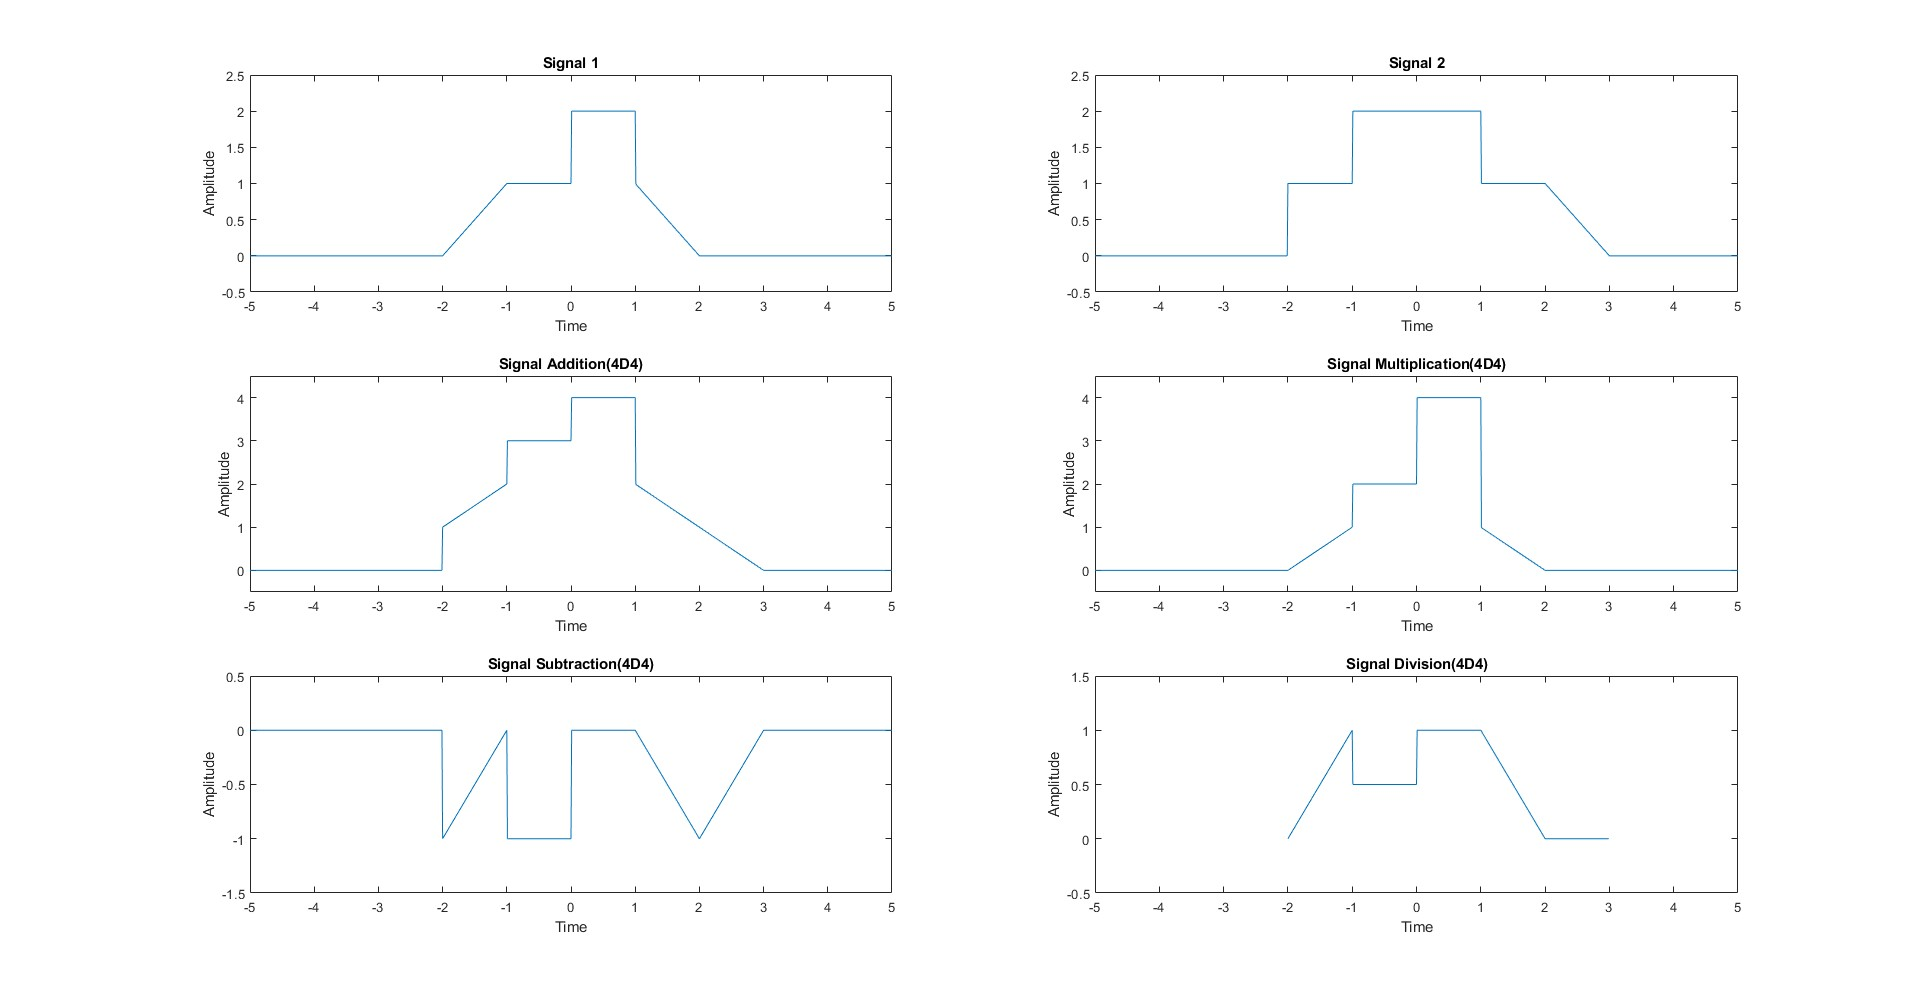
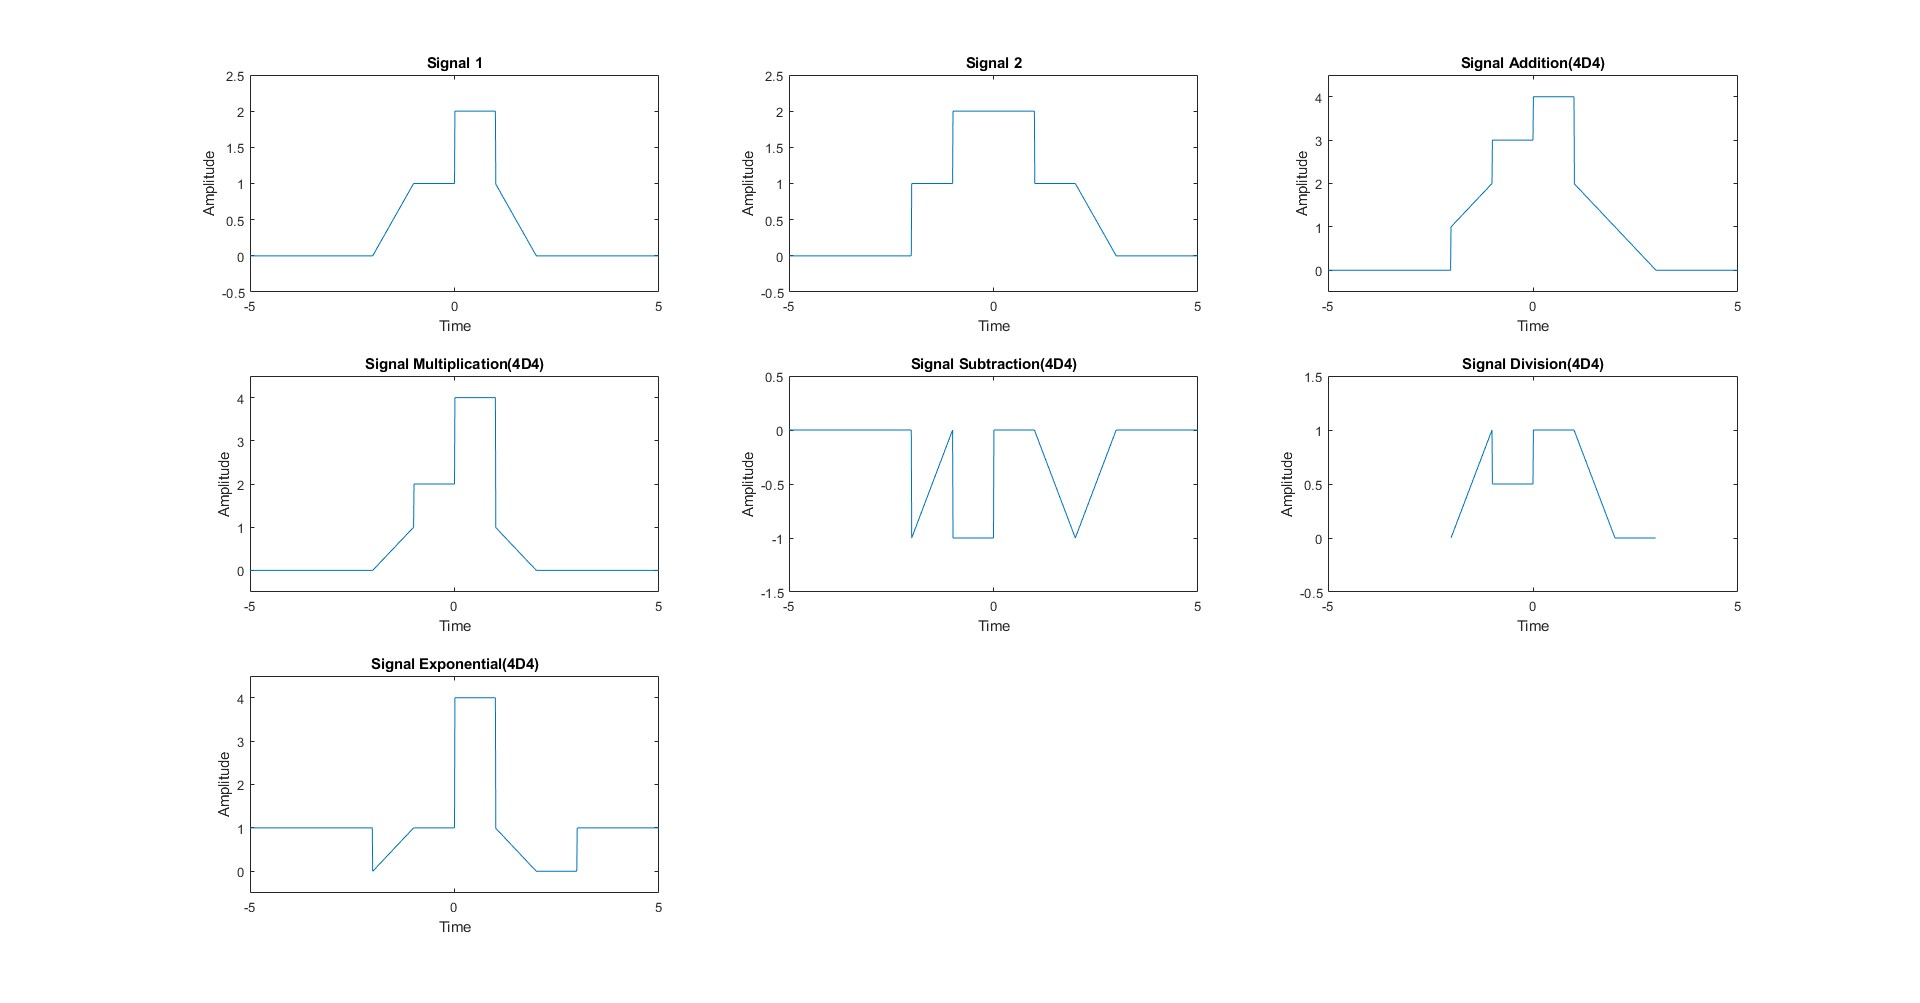
Description added

diff --git a/Other_Functions_on_Continuous_Signals.m b/Other_Functions_on_Continuous_Signals.m
@@ -1,5 +1,7 @@
+%Time Range
 t=-5:0.01:+5;
 
+%Signal 1
 Signal_1=Signal(t);
 subplot(4,2,1);
 plot(t,Signal_1);
@@ -8,6 +10,7 @@ ylabel("Amplitude");
 title("Signal 1");
 axis([min(t),max(t),min(Signal_1)-0.5,max(Signal_1)+0.5]);
 
+%Signal Left Shifting
 Signal_Left_Shifting=Signal(t+3);
 subplot(4,2,2);
 plot(t,Signal_Left_Shifting);
@@ -16,8 +19,7 @@ ylabel("Amplitude");
 title("Signal Left Shifting(4D4)");
 axis([min(t),max(t),min(Signal_Left_Shifting)-0.5,max(Signal_Left_Shifting)+0.5]);
 
-
-
+%Signal Right Shifting
 Signal_Right_Shifting=Signal(t-3);
 subplot(4,2,3);
 plot(t,Signal_Right_Shifting);
@@ -26,6 +28,7 @@ ylabel("Amplitude");
 title("Signal Right Shifting(4D4)");
 axis([min(t),max(t),min(Signal_Right_Shifting)-0.5,max(Signal_Right_Shifting)+0.5]);
 
+%Signal Amplitude Expansion
 Signal_Amplitude_Expansion=2.*Signal(t);
 subplot(4,2,4);
 plot(t,Signal_Amplitude_Expansion);
@@ -34,6 +37,7 @@ ylabel("Amplitude");
 title("Signal Amplitude Expansion Scaling(4D4)");
 axis([min(t),max(t),min(Signal_Amplitude_Expansion)-0.5,max(Signal_Amplitude_Expansion)+0.5]);
 
+%Signal Amplitude Compression
 Signal_Amplitude_Compression=0.5.*Signal(t);
 subplot(4,2,5);
 plot(t,Signal_Amplitude_Compression);
@@ -42,6 +46,7 @@ ylabel("Amplitude");
 title("Signal Amplitude Compression Scaling(4D4)");
 axis([min(t),max(t),min(Signal_Amplitude_Compression)-0.5,max(Signal_Amplitude_Compression)+0.5]);
 
+%Signal Time Compression
 Signal_Time_Compression=Signal(2.*t);
 subplot(4,2,6);
 plot(t,Signal_Time_Compression);
@@ -50,6 +55,7 @@ ylabel("Amplitude");
 title("Signal Time Compression Scaling(4D4)");
 axis([min(t),max(t),min(Signal_Time_Compression)-0.5,max(Signal_Time_Compression)+0.5]);
 
+%Signal Time Expansion
 Signal_Time_Expansion=Signal(0.5.*t);
 subplot(4,2,7);
 plot(t,Signal_Time_Expansion);
@@ -58,6 +64,7 @@ ylabel("Amplitude");
 title("Signal Time Expansion Scaling(4D4)");
 axis([min(t),max(t),min(Signal_Time_Expansion)-0.5,max(Signal_Time_Expansion)+0.5]);
 
+%Signal Folding
 Signal_Reverse=Signal(-t);
 subplot(4,2,8);
 plot(t,Signal_Reverse);

diff --git a/Other_Functions_on_Discrete_Signals.m b/Other_Functions_on_Discrete_Signals.m
@@ -1,5 +1,7 @@
+%Time Range
 t=-5:1:+5;
 
+%Signal 1
 Signal_1=Signal(t);
 subplot(4,2,1);
 stem(t,Signal_1);
@@ -8,6 +10,7 @@ ylabel("Amplitude");
 title("Signal 1");
 axis([min(t),max(t),min(Signal_1)-0.5,max(Signal_1)+0.5]);
 
+%Signal Left Shifting
 Signal_Left_Shifting=Signal(t+3);
 subplot(4,2,2);
 stem(t,Signal_Left_Shifting);
@@ -16,8 +19,7 @@ ylabel("Amplitude");
 title("Signal Left Shifting(4D4)");
 axis([min(t),max(t),min(Signal_Left_Shifting)-0.5,max(Signal_Left_Shifting)+0.5]);
 
-
-
+%Signal Right Shifting
 Signal_Right_Shifting=Signal(t-3);
 subplot(4,2,3);
 stem(t,Signal_Right_Shifting);
@@ -26,6 +28,7 @@ ylabel("Amplitude");
 title("Signal Right Shifting(4D4)");
 axis([min(t),max(t),min(Signal_Right_Shifting)-0.5,max(Signal_Right_Shifting)+0.5]);
 
+%Signal Amplitude Expansion
 Signal_Amplitude_Expansion=2.*Signal(t);
 subplot(4,2,4);
 stem(t,Signal_Amplitude_Expansion);
@@ -34,6 +37,7 @@ ylabel("Amplitude");
 title("Signal Amplitude Expansion Scaling(4D4)");
 axis([min(t),max(t),min(Signal_Amplitude_Expansion)-0.5,max(Signal_Amplitude_Expansion)+0.5]);
 
+%Signal Amplitude Compression
 Signal_Amplitude_Compression=0.5.*Signal(t);
 subplot(4,2,5);
 stem(t,Signal_Amplitude_Compression);
@@ -42,6 +46,7 @@ ylabel("Amplitude");
 title("Signal Amplitude Compression Scaling(4D4)");
 axis([min(t),max(t),min(Signal_Amplitude_Compression)-0.5,max(Signal_Amplitude_Compression)+0.5]);
 
+%Signal Time Compression
 Signal_Time_Compression=Signal(2.*t);
 subplot(4,2,6);
 stem(t,Signal_Time_Compression);
@@ -50,6 +55,7 @@ ylabel("Amplitude");
 title("Signal Time Compression Scaling(4D4)");
 axis([min(t),max(t),min(Signal_Time_Compression)-0.5,max(Signal_Time_Compression)+0.5]);
 
+%Signal Time Expansion
 Signal_Time_Expansion=Signal(0.5.*t);
 subplot(4,2,7);
 stem(t,Signal_Time_Expansion);
@@ -58,6 +64,7 @@ ylabel("Amplitude");
 title("Signal Time Expansion Scaling(4D4)");
 axis([min(t),max(t),min(Signal_Time_Expansion)-0.5,max(Signal_Time_Expansion)+0.5]);
 
+%Signal Folding
 Signal_Reverse=Signal(-t);
 subplot(4,2,8);
 stem(t,Signal_Reverse);

diff --git a/Arithmetic_Functions_on_Continuous_Signals.m b/Arithmetic_Functions_on_Continuous_Signals.m
@@ -1,60 +1,76 @@
 clear all
 close all
 
+%time range
 t=-5:0.01:+5;
 
+%Signal 1
 Signal_1 = (t+2).*(t>=-2 & t<=-1) + (1).*(t>-1 & t<=0)+ (2).*(t>0 & t<=1)+ (2-t).*(t>1 & t<=2);
 
-subplot(3,2,1);
+subplot(3,3,1);
 plot(t,Signal_1);
 xlabel("Time");
 ylabel("Amplitude");
 title("Signal 1");
 axis([min(t),max(t),min(Signal_1)-0.5,max(Signal_1)+0.5]);
 
-
-
+%Signal 2
 Signal_2 = (1).*(t>=-2 & t<=-1)+ (2).*(t>-1 & t<=1) + (1).*(t>1 & t<=2) + (3-t).*(t>2 & t<=3);
 
-subplot(3,2,2);
+subplot(3,3,2);
 plot(t,Signal_2);
 xlabel("Time");
 ylabel("Amplitude");
 title("Signal 2");
 axis([min(t),max(t),min(Signal_2)-0.5,max(Signal_2)+0.5]);
 
+%Signal Addition
 Signal_Addition = Signal_1 + Signal_2;
 
-subplot(3,2,3);
+subplot(3,3,3);
 plot(t,Signal_Addition);
 xlabel("Time");
 ylabel("Amplitude");
 title("Signal Addition(4D4)");
 axis([min(t),max(t),min(Signal_Addition)-0.5,max(Signal_Addition)+0.5]);
 
+%Signal Multiplication
 Signal_Multiplication = Signal_1 .* Signal_2;
 
-subplot(3,2,4);
+subplot(3,3,4);
 plot(t,Signal_Multiplication);
 xlabel("Time");
 ylabel("Amplitude");
 title("Signal Multiplication(4D4)");
 axis([min(t),max(t),min(Signal_Multiplication)-0.5,max(Signal_Multiplication)+0.5]);
 
+%Signal Subtraction
 Signal_Subtraction = Signal_1 - Signal_2;
 
-subplot(3,2,5);
+subplot(3,3,5);
 plot(t,Signal_Subtraction);
 xlabel("Time");
 ylabel("Amplitude");
 title("Signal Subtraction(4D4)");
 axis([min(t),max(t),min(Signal_Subtraction)-0.5,max(Signal_Subtraction)+0.5]);
 
+%Signal Division
 Signal_Division = Signal_1 ./ Signal_2;
 
-subplot(3,2,6);
+subplot(3,3,6);
 plot(t,Signal_Division);
 xlabel("Time");
 ylabel("Amplitude");
 title("Signal Division(4D4)");
 axis([min(t),max(t),min(Signal_Division)-0.5,max(Signal_Division)+0.5]);
+
+%Signal Exponential
+Signal_Exponential = Signal_1 .^ Signal_2;
+
+subplot(3,3,7);
+plot(t,Signal_Exponential);
+xlabel("Time");
+ylabel("Amplitude");
+title("Signal Exponential(4D4)");
+axis([min(t),max(t),min(Signal_Exponential)-0.5,max(Signal_Exponential)+0.5]);
+

diff --git a/Arithmetic_Functions_on_Discrete_Signals.m b/Arithmetic_Functions_on_Discrete_Signals.m
@@ -1,60 +1,75 @@
 clear all
 close all
 
+%time range
 t=-5:1:+5;
 
+%Signal 1
 Signal_1 = (t+2).*(t>=-2 & t<=-1) + (1).*(t>-1 & t<=0)+ (2).*(t>0 & t<=1)+ (2-t).*(t>1 & t<=2);
 
-subplot(3,2,1);
+subplot(3,3,1);
 stem(t,Signal_1);
 xlabel("Time");
 ylabel("Amplitude");
 title("Signal 1");
 axis([min(t),max(t),min(Signal_1)-0.5,max(Signal_1)+0.5]);
 
-
-
+%Signal 1
 Signal_2 = (1).*(t>=-2 & t<=-1)+ (2).*(t>-1 & t<=1) + (1).*(t>1 & t<=2) + (3-t).*(t>2 & t<=3);
 
-subplot(3,2,2);
+subplot(3,3,2);
 stem(t,Signal_2);
 xlabel("Time");
 ylabel("Amplitude");
 title("Signal 2");
 axis([min(t),max(t),min(Signal_2)-0.5,max(Signal_2)+0.5]);
 
+%Signal Addition
 Signal_Addition = Signal_1 + Signal_2;
 
-subplot(3,2,3);
+subplot(3,3,3);
 stem(t,Signal_Addition);
 xlabel("Time");
 ylabel("Amplitude");
 title("Signal Addition(4D4)");
 axis([min(t),max(t),min(Signal_Addition)-0.5,max(Signal_Addition)+0.5]);
 
+%Signal Multiplication
 Signal_Multiplication = Signal_1 .* Signal_2;
 
-subplot(3,2,4);
+subplot(3,3,4);
 stem(t,Signal_Multiplication);
 xlabel("Time");
 ylabel("Amplitude");
 title("Signal Multiplication(4D4)");
 axis([min(t),max(t),min(Signal_Multiplication)-0.5,max(Signal_Multiplication)+0.5]);
 
+%Signal Subtraction
 Signal_Subtraction = Signal_1 - Signal_2;
 
-subplot(3,2,5);
+subplot(3,3,5);
 stem(t,Signal_Subtraction);
 xlabel("Time");
 ylabel("Amplitude");
 title("Signal Subtraction(4D4)");
 axis([min(t),max(t),min(Signal_Subtraction)-0.5,max(Signal_Subtraction)+0.5]);
 
+%Signal Division
 Signal_Division = Signal_1 ./ Signal_2;
 
-subplot(3,2,6);
+subplot(3,3,6);
 stem(t,Signal_Division);
 xlabel("Time");
 ylabel("Amplitude");
 title("Signal Division(4D4)");
 axis([min(t),max(t),min(Signal_Division)-0.5,max(Signal_Division)+0.5]);
+
+%Signal Exponential
+Signal_Exponential = Signal_1 .^ Signal_2;
+
+subplot(3,3,7);
+stem(t,Signal_Exponential);
+xlabel("Time");
+ylabel("Amplitude");
+title("Signal Exponential(4D4)");
+axis([min(t),max(t),min(Signal_Exponential)-0.5,max(Signal_Exponential)+0.5]);
